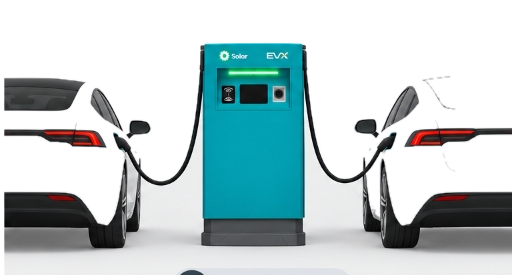
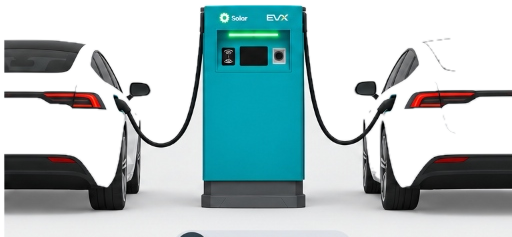
fix: replace idle states with ultra-res transparent models, remove padding, and enlarge hero container to 420px

diff --git a/Tesla-Charge/src/app/(tabs)/index.tsx b/Tesla-Charge/src/app/(tabs)/index.tsx
@@ -952,15 +952,15 @@ const styles = StyleSheet.create({
   /* Hero Charger Image */
   heroChargerContainer: {
     width: '100%',
-    height: 380,
+    height: 420,
     justifyContent: 'center',
     alignItems: 'center',
-    marginVertical: 14,
+    marginVertical: 16,
   },
   heroChargerImage: {
     width: '100%',
-    height: 380,
-    maxWidth: 500,
+    height: '100%',
+    maxWidth: 550,
   },
 
   /* Battery Hero Card on Main Screen */

diff --git a/production/mobile-app/src/app/(tabs)/index.tsx b/production/mobile-app/src/app/(tabs)/index.tsx
@@ -952,15 +952,15 @@ const styles = StyleSheet.create({
   /* Hero Charger Image */
   heroChargerContainer: {
     width: '100%',
-    height: 380,
+    height: 420,
     justifyContent: 'center',
     alignItems: 'center',
-    marginVertical: 14,
+    marginVertical: 16,
   },
   heroChargerImage: {
     width: '100%',
-    height: 380,
-    maxWidth: 500,
+    height: '100%',
+    maxWidth: 550,
   },
 
   /* Battery Hero Card on Main Screen */

diff --git a/testing/mobile-app/src/app/(tabs)/index.tsx b/testing/mobile-app/src/app/(tabs)/index.tsx
@@ -952,15 +952,15 @@ const styles = StyleSheet.create({
   /* Hero Charger Image */
   heroChargerContainer: {
     width: '100%',
-    height: 380,
+    height: 420,
     justifyContent: 'center',
     alignItems: 'center',
-    marginVertical: 14,
+    marginVertical: 16,
   },
   heroChargerImage: {
     width: '100%',
-    height: 380,
-    maxWidth: 500,
+    height: '100%',
+    maxWidth: 550,
   },
 
   /* Battery Hero Card on Main Screen */
